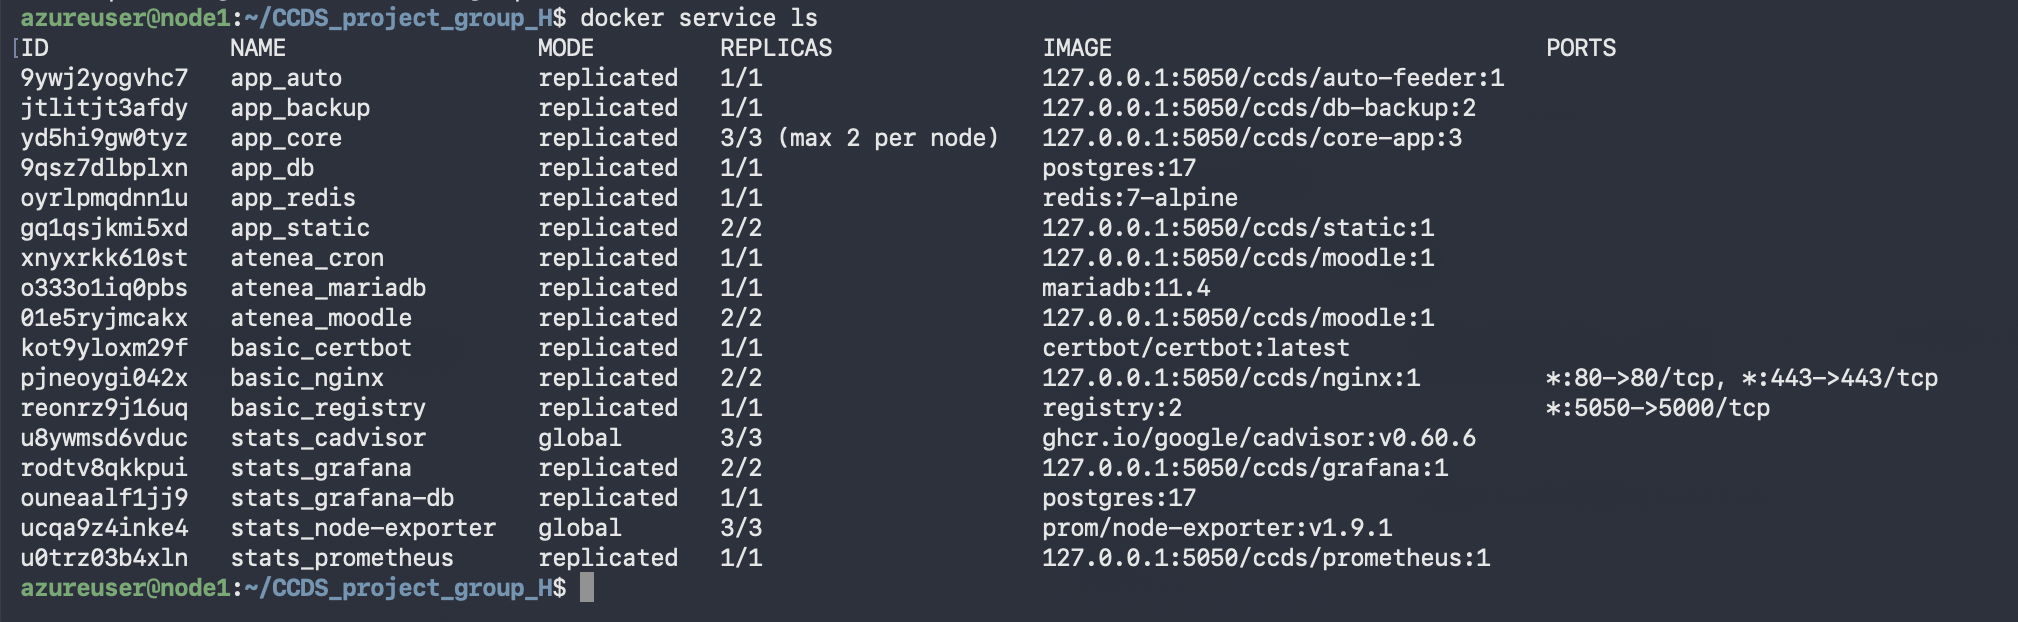
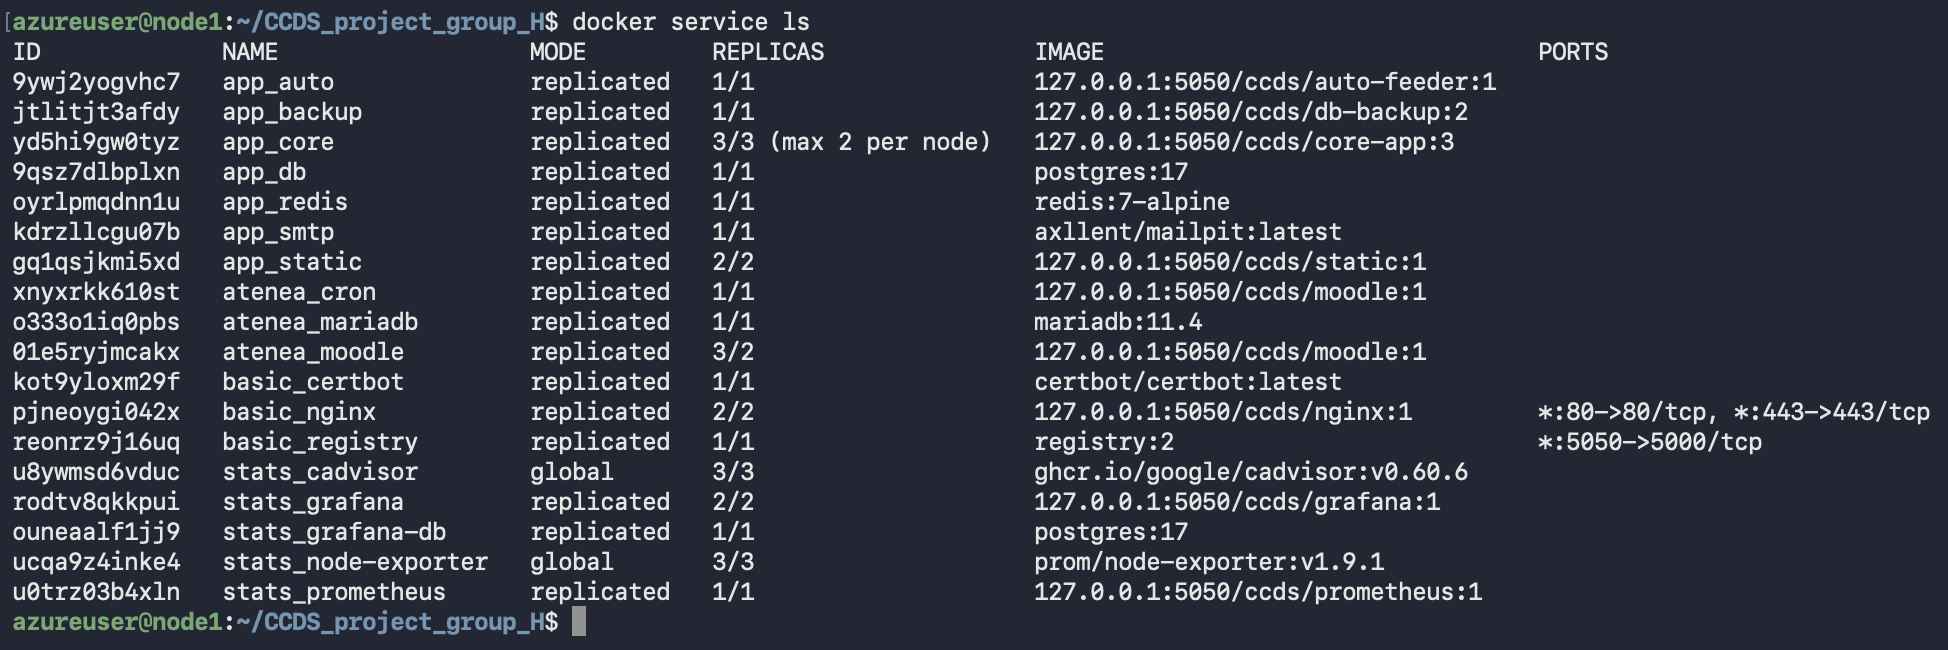
README with documentation and docs images

Changed region(s): [[0.0, 0.0, 0.77, 0.9775], [0.77, 0.5804, 1.0, 0.7026], [0.77, 0.0611, 0.8316, 0.0916]]

diff --git a/README.md b/README.md
@@ -1,15 +1,321 @@
-# CCDS_project_group_H
-CCDS project group H
+# Cloud Computing and Distributed Systems Short Project – Group H
 
-## Atenea / Moodle Stack
+By:
+* Alvaro Castillejo
+* Berk Gonenc
+* Sepehr Ashtari
+* Abdelkrim Alahyane
 
-The Atenea stack provides a containerized Moodle LMS installation running on Apache/PHP and connected to a MariaDB database.
+---
 
-During the implementation:
-- Moodle 5.3 is automatically downloaded during the Docker build process.
-- PHP requirements and extensions are installed automatically.
-- Database connectivity is configured through Docker Compose.
-- Unicode and UTF-8 compatibility issues were resolved using MariaDB utf8mb4 configuration.
-- No manual download or installation of Moodle source files is required.
+## Contents
 
-Deployment only requires building the Docker image and running the compose file. After deployment, the Moodle web installation wizard can be completed through the browser.
+1. [Overview](#overview)
+2. [Run locally](#run-locally)
+3. [Architecture](#architecture)
+4. [Stacks](#stacks)
+    - [Basic – Front end and infrastructure](#basic--front-end-and-infrastructure)
+    - [App – Rating application](#app--rating-application)
+    - [Stats – Monitoring](#stats--monitoring)
+    - [Atenea – Moodle](#atenea--moodle)
+5. [Production deployment (Docker Swarm on Azure)](#production-deployment-docker-swarm-on-azure)
+6. [Data management and backups](#data-management-and-backups)
+7. [Scalability](#scalability)
+8. [Security](#security)
+9. [Evidences](#evidences)
+10. [Requirements checklist](#requirements-checklist)
+11. [Repository layout](#repository-layout)
+
+---
+
+## Overview
+
+The project is divided into four stacks, all reached through one nginx front end:
+
+
+| Stack | Services | Purpose |
+|---|---|---|
+| `basic` | nginx, certbot (Let's Encrypt), registry, NFS | Shared services for the whole infrastructure |
+| `app` | core (Python), Postgres, Redis, Apache static, feeder bot, DB backup, SMTP relay (Mailpit) | "Page ratings" application |
+| `stats` | Prometheus, cAdvisor, node-exporter, Grafana (+ Infinity plugin) | Monitoring of every container, node and the app |
+| `atenea` | Moodle 5.3, MariaDB, Moodle cron | Learning Management System |
+
+Each stack has two compose files, as required:
+
+- `compose.yml` – **local** environment: one machine, no TLS, no shared volumes, plain local passwords.
+- `production.yml` – **production**: Docker Swarm, replicas, Docker secrets, overlay networks, NFS.
+
+---
+
+## Run locally
+
+**Requirements:** Docker (running) and `make`. To start the environment locally execute the following command:
+
+```bash
+make local-up
+```
+
+This make commands starts the following services:
+
+- Missing secret files are created automatically from the `.example` files.
+- Wait around 2 minutes. **Moodle installs itself on the first start (up to 5 minutes).**
+- Check progress with `make status`.
+
+The different stacks are reachable from the following URLs:
+
+| URL | What | Login (local only) |
+|---|---|---|
+| http://app.localhost | Core app API (JSON, shows which replica answered) | n/a |
+| http://app.localhost/static/ | Rate a page and see the live leaderboard | n/a |
+| http://grafana.localhost | Grafana, dashboard "CCDS overview" | `admin` / `admin` |
+| http://moodle.localhost | Moodle LMS | `admin` / `Atenea-Admin1` |
+| http://mail.localhost | Mailbox: an alert arrives for every 1-star rating | n/a |
+
+Only nginx publishes a port (80); every other service is reachable only through it. The `make` commands in the project are the following:
+
+```bash
+make status        # check container status
+make local-down    # stop containers but maintain data
+make local-clean   # stop containers and delete all data (next start is a fresh install)
+```
+
+---
+
+## Architecture
+
+![Architecture](architecture.png)
+
+**Request path:** browser → nginx (`<service>.<domain>`) → service on the shared `proxy` network.
+
+**Networks**
+
+| Network | Type | Who is on it | Why |
+|---|---|---|---|
+| `proxy` | external, overlay (attachable) in swarm | nginx + every service nginx routes to | Single shared contract between stacks |
+| `app_backend` | overlay, `internal` | core, Postgres, Redis, feeder, backup, stmp | Database and cache unreachable from nginx and from the internet |
+| `atenea_backend` | overlay, `internal` | Moodle, MariaDB, cron | Same for the LMS |
+| `stats_monitoring` | overlay, `internal` | Prometheus, Grafana, grafana-db, exporters | Monitoring internals isolated |
+
+**Routing (nginx)** – one template per subdomain in `basic/nginx/templates/`, with `${DOMAIN}`
+filled in at start (`localhost` locally, `ccds-group-h.duckdns.org` in production):
+
+| Host | Upstream |
+|---|---|
+| `app.<domain>/` and `/app/` | `core:8000` |
+| `app.<domain>/static/` | `static:80` |
+| `grafana.<domain>` | `grafana:3000` (incl. websockets for Grafana Live) |
+| `moodle.<domain>` | `moodle:80` |
+| `registry.<domain>/v2/` | `registry:5000` (basic auth) |
+| `mail.<domain>` | `smtp:8025` (Mailpit web mailbox, local demo only) |
+
+nginx resolves upstreams per request through Docker's DNS (`resolver 127.0.0.11`), so it starts even
+when the other stacks are not deployed yet (it answers 502 until they are).
+
+---
+## Stacks
+
+## Basic – Front end and infrastructure
+
+Files: `basic/`, `scripts/`, `Makefile`.
+
+- **Nginx:** Web server with HTTPS support. Uses 2 replicas in production.
+- **Let's Encrypt:** Automatically issues and renews certificates for the application, Grafana, Moodle and registry.
+- **Registry:** Stores Docker images on NFS. Internal access uses port 5050; external access uses HTTPS and password protection.
+- **NFS:** Shared storage hosted on node1 and mounted on all nodes. Stores certificates, Docker images and application data.
+
+## App – Rating application
+
+Files: `app/`
+
+The application lets users rate web pages from 1 to 5 stars and displays a live leaderboard.
+
+| Service | Replicas | Purpose |
+|---|---:|---|
+| Core | 3 | Handles ratings, leaderboard and alerts |
+| Static | 2 | Serves the website |
+| Auto-feeder | 1 | Automatically submits test ratings |
+| PostgreSQL | 1 | Stores ratings |
+| Redis | 1 | Caches the leaderboard |
+| Backup | 1 | Backs up the database hourly |
+| SMTP (Mailpit) | 1 | Relays alert mails; locally keeps them in a web mailbox |
+
+- **Rating form:** the static page has a form that posts to the core API (`/app/ratings`); the
+  leaderboard refreshes every 10 s.
+- **SMTP:** a 1-star rating makes the core app send an alert mail to the `smtp` service (Mailpit).
+  Locally Mailpit keeps the mails in a web mailbox (http://mail.localhost); in production it can forward
+  them to a real provider with its `MP_SMTP_RELAY_*` settings.
+
+## Stats – Monitoring
+
+Files: `stats/`
+
+| Service | Replicas | Purpose |
+|---|---:|---|
+| Prometheus | 1 | Collects monitoring data |
+| cAdvisor | 1 per node | Monitors containers |
+| Node Exporter | 1 per node | Monitors servers |
+| Grafana | 2 | Displays dashboards |
+| Grafana DB | 1 | Stores Grafana data |
+
+- **Configuration as code:** Dashboards and data sources are configured through files in Git.
+- **Infinity plugin:** Displays application data, including the leaderboard, in Grafana.
+
+## Atenea – Moodle
+
+Files: `atenea/`
+
+| Service | Replicas | Purpose |
+|---|---:|---|
+| Moodle | 2 | Learning management system |
+| MariaDB | 1 | Stores Moodle data |
+| Cron | 1 | Runs scheduled Moodle tasks every minute |
+
+- **Automatic setup:** Moodle installs itself on first startup and restores its configuration when restarted.
+- **Multiple replicas:** Both Moodle instances share storage and configuration.
+- **HTTPS:** Nginx handles HTTPS connections.
+- **Secrets:** Production passwords are stored securely using Docker secrets.
+
+---
+
+## Production deployment (Docker Swarm on Azure)
+
+### Cluster
+
+| | |
+|---|---|
+| Nodes | 3 × Standard B2als_v2 (2 vCPU, 4 GB), Ubuntu 24.04, one virtual network |
+| node1 `172.16.0.4` | swarm manager, NFS server, the only node with HTTP/HTTPS open |
+| node2 `172.16.1.4` | worker, labelled `db=true` (Postgres and MariaDB run here) |
+| node3 `172.16.2.4` | worker |
+| Domain | `ccds-group-h.duckdns.org` (DuckDNS, `*.` subdomains → node1) |
+
+Node setup and swarm creation: `scripts/swarm-up.sh`. NFS server: `scripts/nfs-server.sh`.
+
+### Deploy
+
+On node1, from the repository:
+
+```bash
+# Execute only the first time before the images can be pushed
+make registry
+# Build all images and push them to the registry, then deploy the 4 stacks
+make release
+make deploy
+```
+
+Before the first deploy: real passwords in `app/secrets/`, `stats/secrets/`, `atenea/secrets/` and
+`basic/registry/htpasswd` (never committed), NFS folders created, node2 labelled `db=true`.
+
+Images are always built on node1 (x86).
+
+---
+
+## Data management and backups
+
+The question for every piece of data: *is it data at all, and is it critical?*
+
+| Data | Kind | Local | Production | Backed up | If lost |
+|---|---|---|---|---|---|
+| Ratings (Postgres) | Critical | volume `app_db_data` | local volume on node2 (`db=true`) | **Yes**, hourly `pg_dump` to NFS, 48 kept | Restore last dump (`restore.sh`) |
+| Moodle database (MariaDB) | Critical | volume `atenea_db_data` | local volume on node2 | Manual `mariadb-dump` (see below); not automated | Restore the last dump |
+| Moodle files (moodledata) | Critical | volume `atenea_moodledata` | NFS `/srv/nfs/atenea/moodledata` | Manual `tar` of the NFS folder | Restore the archive |
+| Leaderboard cache (Redis) | Volatile | memory only | memory only | No | Rebuilt from Postgres |
+| Metrics (Prometheus) | Nice to have | volume | local volume on the manager | No | Graphs restart, scraping refills |
+| Grafana users/sessions | Low | SQLite volume | Postgres `grafana-db` | No | Users log in again |
+| Dashboards, nginx config, code | Code | in images (git) | in images (git) | git | Rebuild and redeploy |
+| TLS certificates | Regenerable | – | NFS | No | certbot issues new ones |
+| Registry images | Regenerable | – | NFS | No | `make release` |
+| Passwords | Secrets | `.txt` from `.example` | Docker secrets | No | Create new secret files |
+
+**Why databases are not on NFS:** file locking on network filesystems can corrupt databases and makes
+them slow. Databases stay on a local volume on a labelled node; their 
+
+**Moodle backup (manual).** Only the app database has an automatic backup job, as required by the
+statement. Moodle is backed up by hand; automating it would reuse the same pattern as `app/backup`
+(a cron container dumping to NFS).
+
+**dumps** go to NFS so they survive
+the loss of that node.
+
+---
+
+## Scalability
+
+The statement requires every service to be scalable, except cron jobs and DBMSs.
+
+| Service | Replicas | Scales? |
+|---|---|---|
+| nginx | 2 | Yes |
+| registry | 1 | Yes (storage on NFS) |
+| certbot | 1 | No – cron job |
+| core | 3 | Yes (stateless) |
+| static | 2 | Yes |
+| auto | 1 | Yes (more replicas = more traffic) |
+| redis | 1 | One shared cache by design |
+| postgres, mariadb, grafana-db | 1 | No – DBMS |
+| backup, moodle cron | 1 | No – cron jobs |
+| grafana | 2 | Yes (shared Postgres) |
+| prometheus | 1 | No – time-series DBMS |
+| cadvisor, node-exporter | global | One per node |
+| moodle | 2 | Yes (shared moodledata, install lock) |
+| smtp (Mailpit) | 1 | One mailbox by design (messages stored in the container) |
+
+```bash
+docker service scale app_core=5
+```
+
+---
+
+## Security
+
+- **Only 22, 80 and 443 are open from the internet**; NFS (2049), registry (5050) and swarm ports are
+  reachable only inside the Azure virtual network (checked from outside: all closed).
+- **HTTPS everywhere** in production, HTTP redirected to HTTPS.
+- **Docker secrets** for every production password; only `.example` files are in git.
+- **Internal networks** for databases and caches; nginx cannot reach them.
+- **Registry** behind basic auth; **Grafana** admin password from a secret; **Infinity** limited to the app URL.
+- Containers run as non-root users where the image allows it (core, feeder, backup).
+
+---
+
+## Evidences
+
+The docker swarm has been correctly deployed on Azure with the 3 nodes and all 18 services deployed as visible in the image below:
+
+![Evidence](deployment_azure.png)
+
+The screenshot has been taken from the node1 in the Docker Swarm where the deployment is performed.
+
+---
+
+## Requirements checklist
+
+| Requirement (statement) | Where |
+|---|---|
+| compose.yml files | `basic/`, `app/`, `stats/`, `atenea/` |
+| production.yml files | same folders |
+| Dockerfiles + build files | `basic/nginx/`, `app/core/`, `app/auto/`, `app/static/`, `app/backup/`, `stats/grafana/`, `stats/prometheus/`, `atenea/` |
+| Documentation of deployment, data and backups | this README, `app_stack_report.pdf`, `stats/README.md` |
+| Swarm with ≥ 3 nodes | [Production deployment](#production-deployment-docker-swarm-on-azure) |
+| Shared disk between nodes | NFS ([basic](#basic--front-end-and-infrastructure)) |
+| Front end proxying to every service | nginx templates |
+| Let's Encrypt TLS | certbot service |
+| Registry | `registry:2` + nginx auth |
+| Core app, db, dump backup, static server, cache, SMTP, feeder | `app/` |
+| Grafana as code + plugin | `stats/` (Infinity) |
+| Moodle + database | `atenea/` |
+| No extra steps besides build and deploy | `make local-up` / `make release && make deploy` |
+| All services scalable except cron jobs and DBMS | [Scalability](#scalability) |
+
+---
+
+## Repository layout
+
+```
+basic/     nginx (Dockerfile, templates/, snippets/, 30-tls-mode.sh), registry/   compose.yml, production.yml
+app/       core/, auto/, static/, backup/, secrets/*.example                       compose.yml, production.yml
+stats/     grafana/ (provisioning/, dashboards/), prometheus/, secrets/*.example    compose.yml, production.yml
+atenea/    Dockerfile, moodle-entrypoint.sh, secrets/*.example                      compose.yml, production.yml
+scripts/   swarm-up.sh, nfs-server.sh
+Makefile   local-up, local-down, local-clean, status | registry, release, deploy
+```
